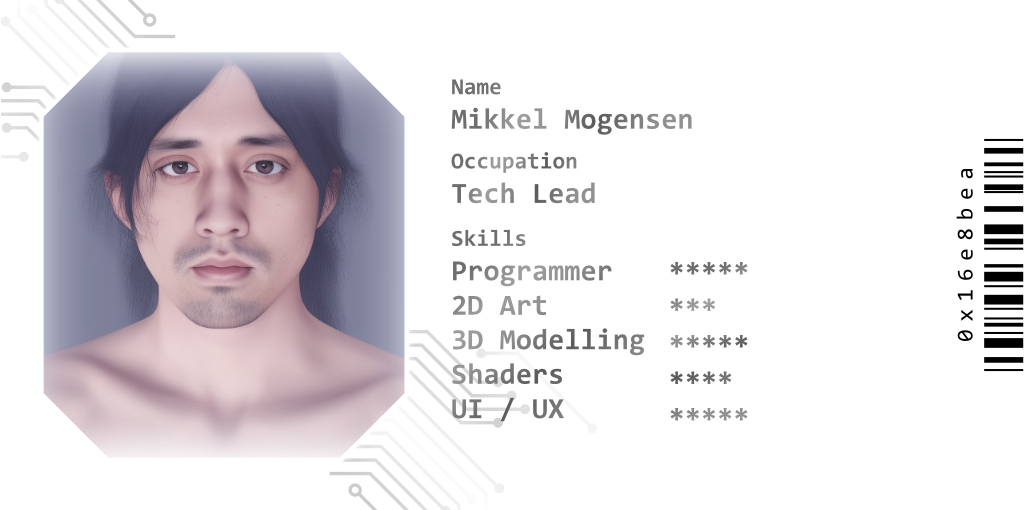
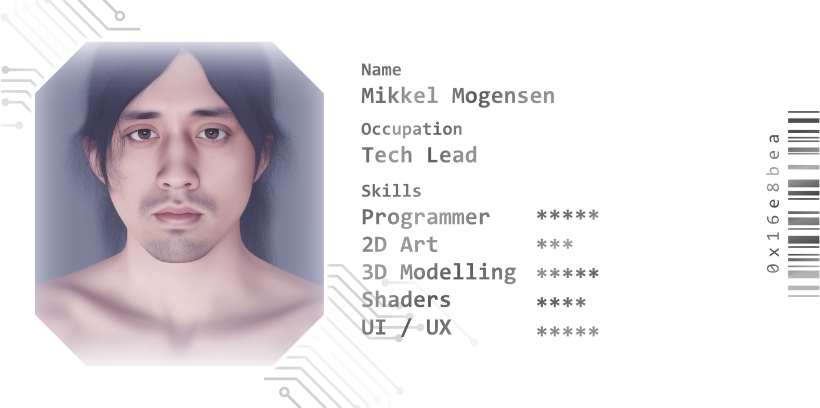
Fix card height

Changed region(s): [[0.9146, 0.2647, 1.0, 0.7353], [0.5488, 0.6471, 0.5793, 0.6765]]

diff --git a/app/projects/page.tsx b/app/projects/page.tsx
@@ -207,7 +207,7 @@ export default function ProjectsPage() {
 					<div className="relative items-center justify-center w-full min-w-xl py-16 mx-auto lg:py-24 max-w-xl">
 						<Card>
 
-							<div className="relative bg-white bg-opacity-50 text-white h-64 backdrop-blur">
+							<div className="relative bg-white bg-opacity-50 text-white h-auto backdrop-blur">
 								<div className="flex items-center justify-center h-full">
 									<img className="object-cover" src="/IdCard.png" alt="User" />
 								</div>
